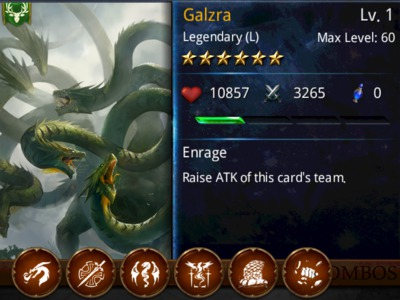
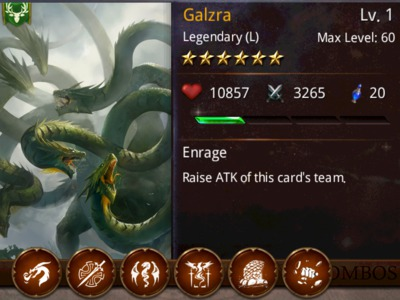
Update a few cards' mana and screenshot

diff --git a/cards.js b/cards.js
@@ -1,6 +1,6 @@
 var cards = [
   new Card("Abnoba", "Druid", 5, "", 50, 7101, 2191, ["Woodland Deities",]),
-  new Card("Ageless Scorpion", "Druid", 5, "", 50, 8085, 2508, ["Desert Guardians","Goliaths","Toxic Death",]),
+  new Card("Ageless Scorpion", "Druid", 5, 15, 50, 8085, 2508, ["Desert Guardians","Goliaths","Toxic Death",]),
   new Card("Aleria", "Druid", 5, "", 50, 7740, 1863, ["Umbral Spirits",]),
   new Card("Alpha Stag", "Druid", 3, 7, 30, 2611, 846, ["Stag Herder","Wild Pack","Blessed Stag Rider","Druid Warband","Stag Pack",]),
   new Card("Amythestine", "Druid", 5, "", 50, 6754, 2105, ["Umbral Spirits",]),
@@ -63,7 +63,7 @@ var cards = [
   new Card("Elder Shaman", "Druid", 4, 13, 40, 5644, 1745, ["Elite Casters","Shamans","Druid Beats","Theurgists","Travelers",]),
   new Card("Ember Druid", "Druid", 3, 9, 30, 3445, 1080, ["Magicians","Burning Wrath",]),
   new Card("Enchantress", "Druid", 2, 5, 20, 1580, 490, []),
-  new Card("Famine", "Demon", 5, "", 50, 9600, 2546, ["Four Horsemen","Beyond Redemption",]),
+  new Card("Famine", "Demon", 5, 24, 50, 9600, 2546, ["Four Horsemen","Beyond Redemption",]),
   new Card("Father Beneficent", "Camelot", 5, "", 50, 9090, 2185, ["Fallen Heroes","Righteous Fury","Warrior Poets",]),
   new Card("Father Maleficent", "Demon", 3, 10, 30, 3500, 1110, ["Cultists","Twin Clerics","Beyond Redemption",]),
   new Card("Fenric Gore-Claw", "Demon", 5, 13, 50, 5440, 1712, ["Demons",]),
@@ -92,7 +92,7 @@ var cards = [
   new Card("Jezebel the Fair", "Camelot", 5, "", 50, 7036, 1694, ["Fallen Heroes",]),
   new Card("Jezebel the Shriek", "Demon", 5, "", 50, 10306, 3105, ["Dark Arts","Corrupted","Aerial Doom","Beyond Redemption","League of the Damned",]),
   new Card("Karn", "Demon", 5, "", 50, 7025, 2213, ["Bone Spirit","Undead Party","Necro Party",]),
-  new Card("Kel Earthbringer", "Druid", 6, "", 60, 11330, 3480, ["Strength of Will","Geomancers",]),
+  new Card("Kel Earthbringer", "Druid", 6, 20, 60, 11330, 3480, ["Strength of Will","Geomancers",]),
   new Card("Kelley", "Camelot", 5, 16, 50, 8131, 2436, ["Lords and Guards","Hot Blooded","Fearless Fighters","Final Stand",]),
   new Card("Kelpie", "Druid", 2, 6, 20, 1905, 585, ["Tide Lurkers",]),
   new Card("Khufu", "Demon", 5, "", 50, 7600, 2546, ["Monster Mash",]),
@@ -106,12 +106,12 @@ var cards = [
   new Card("Lyrist", "Camelot", 5, "", 50, 7213, 2050, ["Merciful Angels","Martial Music",]),
   new Card("Maiden Exemplar", "Camelot", 5, 17, 50, 8583, 2060, ["Heavy Cavalry","Generals","Shining Armor","Jack of all Trades","Free Spirits",]),
   new Card("Mammoth Beetle", "Druid", 5, "", 50, 8131, 2436, ["Behemoths","Core Dwellers","Goliaths",]),
-  new Card("Mara of the Sand", "Druid", 6, "", 60, 11330, 4013, ["Geomancers","Inner Circle","Desert Guardians",]),
+  new Card("Mara of the Sand", "Druid", 6, 22, 60, 11330, 4013, ["Geomancers","Inner Circle","Desert Guardians",]),
   new Card("Marble Guardian", "Camelot", 4, "", 40, 6622, 1600, ["Summoned Minions","Defenders","Guardian Constructs","Earthen Might",]),
   new Card("Mechanical Knight", "Camelot", 3, 10, 30, 4180, 1020, ["Summoned Minions","Guardian Constructs",]),
   new Card("Merla the Lidless", "Druid", 5, "", 50, 7440, 2312, ["Umbral Spirits","Premeditation",]),
   new Card("Merlin's Dragon", "Camelot", 5, 16, 50, 8065, 1944, ["Fire Breathing","Epic Serpents","Dragon's Blood",]),
-  new Card("Mhor the Wyrm", "Druid", 5, "", 50, 6933, 2130, ["Thick Hides","Epic Serpents","Titans","Wyrm Duo","Unstoppable Force","Goliaths",]),
+  new Card("Mhor the Wyrm", "Druid", 5, 15, 50, 6933, 2130, ["Thick Hides","Epic Serpents","Titans","Wyrm Duo","Unstoppable Force","Goliaths",]),
   new Card("Mist Stalker", "Druid", 5, "", 50, 7885, 2408, ["Cold Killers","Hooded Terrors","Killers for Hire","Assassin's Alliance",]),
   new Card("Modron", "Demon", 5, "", 50, 4731, 1871, ["Monster Mash",]),
   new Card("Morbius the Cursed", "Demon", 5, "", 50, 5878, 1843, ["Relentless Evil","Unholy Strength","Bone Spirit","Undead Party","Beyond Redemption","League of the Damned",]),
@@ -123,7 +123,7 @@ var cards = [
   new Card("Odo the Infernal", "Demon", 4, "", 40, 5734, 1491, ["Necro Party",]),
   new Card("Ossion the Dread", "Demon", 6, "", 60, 12930, 3080, ["Relentless Evil","Hooded Terrors","Necromancers","Immortals","Dark Arts","Pure Evil","League of the Damned",]),
   new Card("Paladin", "Camelot", 4, 12, 40, 5650, 1376, ["Twin Knights","Suited Up","Holy Men","Healers","Knight Warband","Assault Team",]),
-  new Card("Pestilence", "Demon", 5, "", 50, 9877, 2524, ["Four Horsemen","Toxic Death","Body Count",]),
+  new Card("Pestilence", "Demon", 5, 23, 50, 9877, 2524, ["Four Horsemen","Toxic Death","Body Count",]),
   new Card("Phantom Panther", "Druid", 4, "", 40, 5200, 1711, ["On the Hunt","Feral Pack",]),
   new Card("Pikeman", "Camelot", 2, 5, 20, 1700, 415, ["Soldiers",]),
   new Card("Primal Rider", "Druid", 5, "", 50, 7392, 2436, ["Druid Elite","Heavy Cavalry","Savage Elite",]),
@@ -133,7 +133,7 @@ var cards = [
   new Card("Ranger", "Druid", 4, 10, 40, 4305, 1345, ["Finesse Fighters","Healers","Wanderers","On the Hunt",]),
   new Card("Reindeer", "Druid", 1, "", 1, 1, 1, []),
   new Card("Rhiannon the Fair", "Druid", 6, 19, 60, 10306, 3105, ["Gods and Heroes","Nature's Wrath","Gods","Elite Force","Divine Ladies","Female Legends","Healers",]),
-  new Card("Rogue Outlaw", "Camelot", 5, "", 50, 9013, 2480, ["Jack of all Trades","Free Spirits","Killers for Hire",]),
+  new Card("Rogue Outlaw", "Camelot", 5, 16, 50, 9013, 2480, ["Jack of all Trades","Free Spirits","Killers for Hire",]),
   new Card("Ruibh the Wyrm", "Druid", 5, "", 50, 6933, 2130, ["Wyrm Duo","Toxic Death",]),
   new Card("Shanke", "Camelot", 4, "", 40, 5511, 2032, ["Assassin's Alliance",]),
   new Card("Silverheart", "Demon", 6, "", 60, 12930, 3080, ["Frozen Terrors","Pet Familiars",]),
@@ -153,7 +153,7 @@ var cards = [
   new Card("Telekinetic", "Camelot", 4, "", 40, 5013, 1512, ["Strength of Will",]),
   new Card("Terraheart", "Demon", 5, "", 50, 9141, 1865, ["Earthen Might","Core Dwellers","Geomancers","Desert Guardians",]),
   new Card("The Horned Lord", "Druid", 5, 13, 50, 5980, 1852, ["Gods","Forest Guardians","Shamans","Theurgists","Stag Pack",]),
-  new Card("The Prophet", "Camelot", 5, "", 50, 6600, 1550, ["Mystics","Cunning Foes","Wise Sages","Premeditation",]),
+  new Card("The Prophet", "Camelot", 5, 15, 50, 6600, 1550, ["Mystics","Cunning Foes","Wise Sages","Premeditation",]),
   new Card("Thorn Witch", "Druid", 3, 10, 30, 3855, 1200, ["Regeneration","Thorny Threat",]),
   new Card("Totem Guard", "Druid", 6, "", 60, 10857, 3265, ["Druid Elite","Brute Force","King Size Weapons","Enchanted Weapons","Final Stand","Champions",]),
   new Card("Toymaker", "Camelot", 4, "", 40, 4320, 1368, ["Polar",]),
@@ -163,7 +163,7 @@ var cards = [
   new Card("Treekin Shaman", "Druid", 5, "", 50, 8065, 1944, ["Living Forest","Theurgists","Nature Magic",]),
   new Card("Ulster Knight", "Camelot", 4, "", 40, 5670, 1370, ["Mercenaries","Hired Steel",]),
   new Card("Unicorn", "Camelot", 1, 5, 10, 1480, 365, []),
-  new Card("Vambrael", "Camelot", 6, "", 60, 11830, 2780, ["Divine Intervention","Gods and Heroes","Gods","Celestials","Elite Force","Righteous Fury",]),
+  new Card("Vambrael", "Camelot", 6, 20, 60, 11830, 2780, ["Divine Intervention","Gods and Heroes","Gods","Celestials","Elite Force","Righteous Fury",]),
   new Card("Vanguard", "Camelot", 4, "", 40, 4785, 1780, ["Bruisers","Assault Team","Burst Damage",]),
   new Card("Veteran Paladin", "Camelot", 6, "", 60, 10857, 3565, ["Jack of all Trades","Augmented Arms","Hot Blooded",]),
   new Card("Violet Knight", "Camelot", 5, 17, 50, 8765, 1944, ["Romantic Knights","Enchanted Weapons",]),
